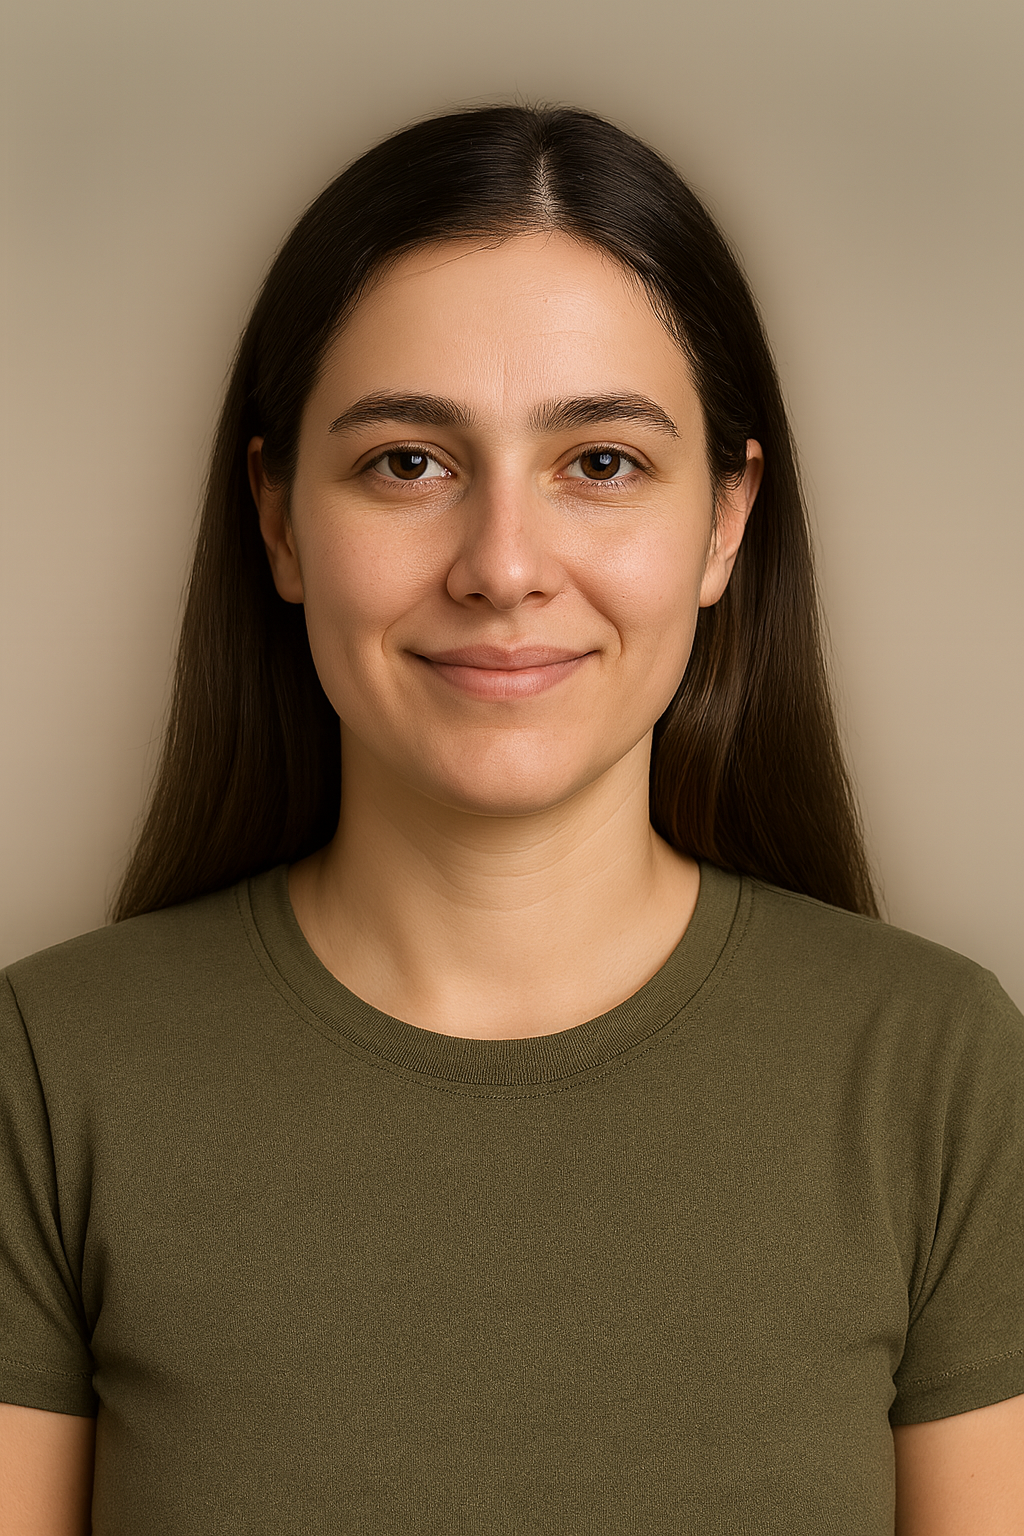
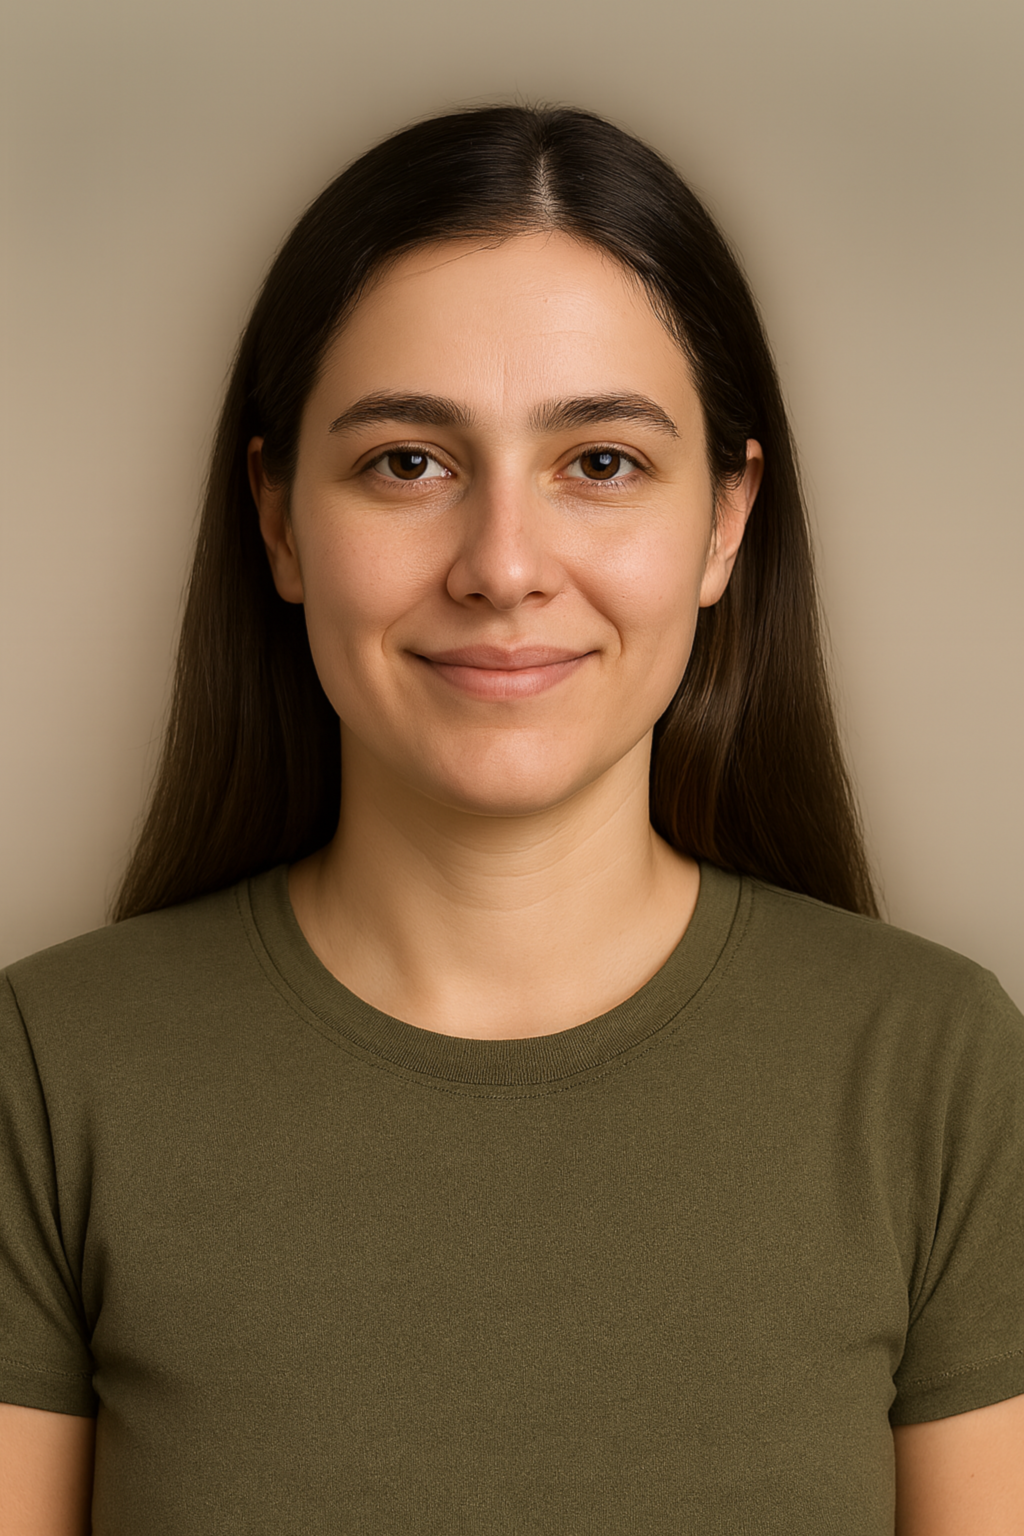
adjusted UI fixed JSON and blurred images a little

diff --git a/app/main.py b/app/main.py
@@ -7,7 +7,7 @@ from pathlib import Path
 
 APP_DIR = Path(__file__).parent if "__file__" in globals() else Path.cwd()
 
-@st.cache_data(show_spinner=False)
+# @st.cache_data(show_spinner=False)
 def img_src_from_local(rel_path: str) -> str:
     if not rel_path:
         return ""
@@ -56,7 +56,7 @@ st.set_page_config(
     page_title="Simulador de Terapia Psicológica",
     page_icon="🧠",
     layout="wide",
-    initial_sidebar_state="collapsed"
+    initial_sidebar_state="expanded"
 )
 
 # --- URLs del API ---
@@ -136,6 +136,8 @@ def inicializar_estado():
         st.session_state.audio_format = "wav"
 
 def pantalla_seleccion():
+
+    
     st.markdown('<h1 style="color: #222831;">🧠 Simulador de Terapia Psicológica</h1>', unsafe_allow_html=True)
     st.markdown('<h3 style="color: #222831;">Selecciona un personaje para comenzar la simulación</h3>', unsafe_allow_html=True)
     st.markdown("---")
@@ -167,6 +169,90 @@ def pantalla_seleccion():
                     st.rerun()
 
 # --- Llamadas al API ---
+def enviar_mensaje_api_voice(mensaje: str, voice: str, audio_format: str) -> Dict[str, Any]:
+    """
+    Calls /simulator/voice and returns:
+      - audio_bytes
+      - mime  (e.g., 'audio/wav')
+      - transcript
+    Prefers JSON {audio_base64, media_type, transcript}. Falls back to old header+bytes.
+    """
+    try:
+        payload = {
+            "message": mensaje,
+            "voice": voice,
+            "format": audio_format,
+            "configuration": st.session_state.configuracion,
+        }
+        r = requests.post(API_VOICE_URL, json=payload, timeout=60)
+        if r.status_code != 200:
+            return {"error": f"Error del servidor: {r.status_code} - {r.text}"}
+
+        ctype = r.headers.get("Content-Type", "")
+        # New server: JSON body
+        if ctype.startswith("application/json"):
+            data = r.json()
+            audio_b64 = data.get("audio_base64")
+            if not audio_b64:
+                return {"error": "Respuesta inválida: falta audio_base64."}
+            audio_bytes = base64.b64decode(audio_b64)
+            # 👇 use the server’s media_type
+            mime = data.get("media_type", f"audio/{audio_format}")
+            transcript = data.get("transcript", "")
+
+            if transcript:
+                with open(r"transcript.txt", "w", encoding="utf-8") as f:
+                    f.write(transcript)
+
+            return {"audio_bytes": audio_bytes, "mime": mime, "transcript": transcript}
+
+        # Old server: raw audio + header (kept for compatibility)
+        audio_bytes = r.content
+        mime = f"audio/{audio_format}"
+        transcript = r.headers.get("X-Transcript", "")
+        return {"audio_bytes": audio_bytes, "mime": mime, "transcript": transcript}
+
+    except requests.exceptions.ConnectionError:
+        return {"error": "❌ No se puede conectar al servidor. Asegúrate de que /simulator/voice esté arriba."}
+    except requests.exceptions.Timeout:
+        return {"error": "⏱ Tiempo de espera agotado al generar audio."}
+    except Exception as e:
+        return {"error": f"❌ Error inesperado: {str(e)}"}
+
+# def enviar_mensaje_api_voice(mensaje: str, voice: str, audio_format: str) -> Dict[str, Any]:
+#     """
+#     Llama a /simulator/voice y devuelve dict con:
+#       - audio_bytes
+#       - mime (por ej. 'audio/wav')
+#       - transcript (si viene en header X-Transcript)
+#     """
+#     try:
+#         payload = {"message": mensaje, "voice": voice, "format": audio_format, "configuration": st.session_state.configuracion}
+#         response = requests.post(API_VOICE_URL, json=payload, timeout=60)
+
+#         if response.status_code != 200:
+#             return {"error": f"Error del servidor: {response.status_code} - {response.text}"}
+
+#         transcript = response.headers.get("X-Transcript", "")
+#         # save to disk to translate and paste
+#         if transcript:
+#             with open(r"transcript.txt", "w", encoding="utf-8") as f:
+#                 f.write(transcript)
+
+#         # replace("\r"," ").replace("\n"," ")
+
+#         audio_bytes = response.content
+#         mime = f"audio/{audio_format}"
+
+#         return {"audio_bytes": audio_bytes, "mime": mime, "transcript": transcript}
+#     except requests.exceptions.ConnectionError:
+#         return {"error": "❌ No se puede conectar al servidor. Asegúrate de que /simulator/voice esté arriba."}
+#     except requests.exceptions.Timeout:
+#         return {"error": "⏱ Tiempo de espera agotado al generar audio."}
+#     except Exception as e:
+#         return {"error": f"❌ Error inesperado: {str(e)}"}
+
+# --- Llamadas al API ---
 def enviar_mensaje_api_text(mensaje: str, configuracion: Dict[str, Any]) -> str:
     try:
         payload = {"message": mensaje, "configuration": configuracion}
@@ -183,32 +269,6 @@ def enviar_mensaje_api_text(mensaje: str, configuracion: Dict[str, Any]) -> str:
         return "⏱ Tiempo de espera agotado."
     except Exception as e:
         return f"❌ Error inesperado: {str(e)}"
-
-def enviar_mensaje_api_voice(mensaje: str, voice: str, audio_format: str) -> Dict[str, Any]:
-    """
-    Llama a /simulator/voice y devuelve dict con:
-      - audio_bytes
-      - mime (por ej. 'audio/wav')
-      - transcript (si viene en header X-Transcript)
-    """
-    try:
-        payload = {"message": mensaje, "voice": voice, "format": audio_format, "configuration": st.session_state.configuracion}
-        response = requests.post(API_VOICE_URL, json=payload, timeout=60)
-
-        if response.status_code != 200:
-            return {"error": f"Error del servidor: {response.status_code} - {response.text}"}
-
-        transcript = response.headers.get("X-Transcript", "")
-        audio_bytes = response.content
-        mime = f"audio/{audio_format}"
-
-        return {"audio_bytes": audio_bytes, "mime": mime, "transcript": transcript}
-    except requests.exceptions.ConnectionError:
-        return {"error": "❌ No se puede conectar al servidor. Asegúrate de que /simulator/voice esté arriba."}
-    except requests.exceptions.Timeout:
-        return {"error": "⏱ Tiempo de espera agotado al generar audio."}
-    except Exception as e:
-        return {"error": f"❌ Error inesperado: {str(e)}"}
 
 # --- Pantalla de chat (texto + voz) ---
 def pantalla_chat():
@@ -238,7 +298,10 @@ def pantalla_chat():
 
         st.session_state.voice_mode = st.toggle("Responder con voz", value=st.session_state.voice_mode)
         if st.session_state.voice_mode:
-            st.session_state.voice = st.selectbox("Voz", ["alloy", "echo", "shimmer"], index=["alloy","echo","shimmer"].index(st.session_state.voice))
+
+            supported_voices = ["alloy","echo","fable","onyx","nova","shimmer","ash","ballad","coral","sage","verse", "dan"]
+
+            st.session_state.voice = st.selectbox("Voz", supported_voices, index=supported_voices.index(st.session_state.voice))
             st.session_state.audio_format = st.selectbox("Formato", ["wav","mp3","m4a"], index=["wav","mp3","m4a"].index(st.session_state.audio_format))
 
         if st.button("🗑 Limpiar Chat", use_container_width=True):
@@ -280,7 +343,7 @@ def pantalla_chat():
                 if mensaje.get('transcript'):
                     st.caption(f"📝 {mensaje['transcript']}")
 
-    st.markdown("---")
+    # st.markdown("---")
 
     # Form de entrada
     with st.form(key="chat_form", clear_on_submit=True):
@@ -326,24 +389,18 @@ def main():
     inicializar_estado()
     st.markdown("""
     <style>
-    
-.hero{
-  position: sticky;
-  top: 0;               /* if it hides under Streamlit’s top bar, use top: 3.2rem */
-  z-index: 1000;        /* above page content */
-  background:#fff;
-}   
 
     .hero-wrap {
+    position: sticky;
     display: grid;
     grid-template-columns: auto 1fr auto;
-    gap: 1rem;
+    gap: 2rem;
     align-items: center;
     padding: 1rem 1.25rem;
     border: 1px solid #e5e7eb;
     border-radius: 0.875em;
-    margin-bottom: 1rem;
-    box-shadow: 0 2px 10px rgba(0,0,0,.03);
+    margin: 1em;
+    
     }
     .hero .title { font-size: 2.2rem; font-weight: 800; line-height: 1.1; margin: 0; }
     .hero .sub { color: #64748b; font-size: 1rem; margin-top: .25rem; }
@@ -352,12 +409,13 @@ def main():
 
 
 .hero .avatar{
-  width: 8.5em;
-  height: 8.5em;
+  width: 15em;
+  height: 15em;
   border-radius: 50%;
   object-fit: cover;
   box-shadow: 0 0 0 .25em #fff, 0 0 0 .45em #dbeafe;
 }
+
 
 /* optional: slightly smaller on small screens */
 @media (max-width: 48em){
@@ -394,9 +452,15 @@ def main():
     .stButton > button:disabled{ background:#bfe9df; color:#f6f6f6; cursor:not-allowed; }
                 
 
+    /* make Enviar button match Tecmilenio green */
+    [data-testid="stFormSubmitButton"] button {
+    background: var(--tec-green) !important;
+    color: #fff !important;
+}
+
     /* page side padding */
     .block-container{
-    max-width: 75em;         /* ~1200px */
+    max-width: 75em; /* ~1200px */
     padding-left: 4em;
     padding-right: 4em;
     margin-left: auto;
@@ -405,18 +469,30 @@ def main():
 
     /* extra horizontal space between Streamlit columns */
     [data-testid="column"] > div{
-    padding-left: .5em;
-    padding-right: .5em;
+    padding-left: 1em;
+    padding-right: 1em;
     }
 
     /* vertical space between cards (so images don't touch) */
-    .tec-card{ margin-bottom: 1.25em; }
+    .tec-card{ margin-bottom: 2em; }
 
     /* optional: small gap between image and text inside each card */
     .tec-card-img{ margin-bottom: .75em; }
 
+ 
+    .hero {
+    
+    top: 1em;
+    left: 0;
+    right: 0;
+    z-index: 1000;
+    background: white;
+}
+
     </style>
     """, unsafe_allow_html=True)
+
+    
 
     if st.session_state.pantalla_actual == 'seleccion':
         pantalla_seleccion()
